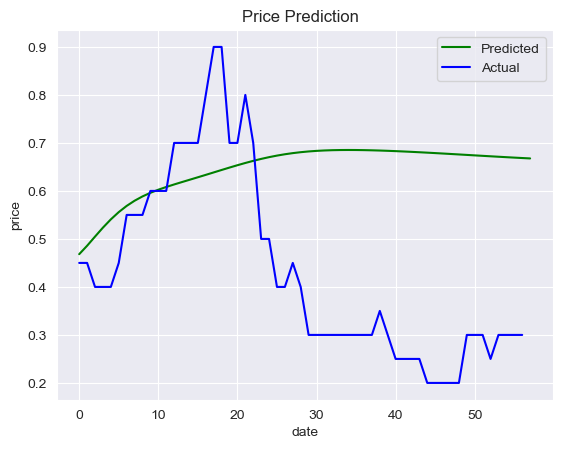
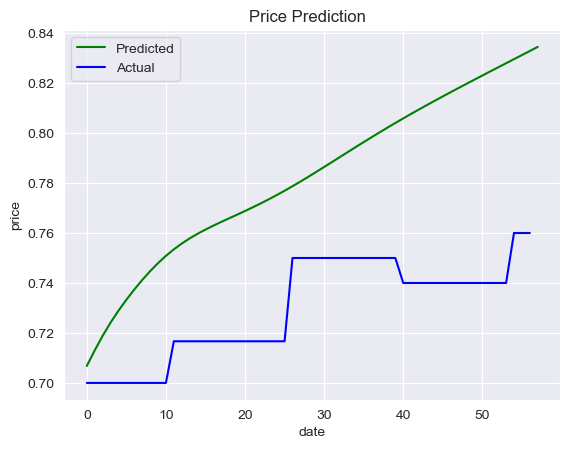
api

diff --git a/extra_virgin_olive_oil_prediction/arima_step_by_step.py b/extra_virgin_olive_oil_prediction/arima_step_by_step.py
@@ -3,12 +3,18 @@ from sklearn import neighbors
 from sklearn.model_selection import GridSearchCV
 import pandas as pd
 from sklearn.preprocessing import MinMaxScaler
-
+from statsmodels.tsa.stattools import adfuller
 scaler = MinMaxScaler(feature_range=(0, 1))
 import matplotlib.pyplot as plt
 from pmdarima.arima import auto_arima
+import numpy as np
+from statsmodels.tsa.seasonal import seasonal_decompose
+from pandas.plotting import autocorrelation_plot
+from statsmodels.tsa.arima_model import ARIMA
 
+from statsmodels.tsa.stattools import acf, pacf
 df = pd.read_csv("food_dataset.csv")
+df.reset_index(drop=True)
 
 dfevoo = df[df['product'] == 'γιδοπρόβατα']
 dfevoo = dfevoo[dfevoo['country'] == 'greece']
@@ -17,9 +23,14 @@ dfevoo = dfevoo.drop(columns=['price_id', 'product', 'priceDate', 'url', 'countr
     by='priceStringDate')
 dfevoo = pd.DataFrame(dfevoo)
 dfevoo = dfevoo.groupby('priceStringDate').mean().reset_index()
-
 train_perc = 0.7
-
+data=dfevoo
+print(data.info())
+print(data.head())
+plt.plot(data)
+plt.show()
+quit(0)
+ts=data['price']
 train = dfevoo[:int(len(dfevoo) * train_perc)]  # .sample(frac=0.8, random_state=0)
 test = dfevoo.drop(train.index)
 data=dfevoo['price']
@@ -32,8 +43,8 @@ plt.show()
 
 def test_stationarity(timeseries):
     #Determing rolling statistics
-    rolmean = timeseries.rolling(window=12).mean()
-    rolstd = timeseries.rolling(window=12).std()
+    rolmean = timeseries.rolling(window=3).mean()
+    rolstd = timeseries.rolling(window=3).std()
 
     #Plot rolling statistics:
     orig = plt.plot(timeseries, color='blue',label='Original')
@@ -42,5 +53,117 @@ def test_stationarity(timeseries):
     plt.legend(loc='best')
     plt.title('Rolling Mean & Standard Deviation')
     plt.show(block=False)
+    # Perform Dickey-Fuller test:
+    print ('Results of Dickey-Fuller Test:')
+    dftest = adfuller(timeseries, autolag='AIC')
+    dfoutput = pd.Series(dftest[0:4], index=['Test Statistic', 'p-value', '#Lags Used', 'Number of Observations Used'])
+    for key, value in dftest[4].items():
+        dfoutput['Critical Value (%s)' % key] = value
+    print(dfoutput)
 
 test_stationarity(data)
+
+ts_log = np.log(data)
+plt.title('Log of the data')
+plt.plot(ts_log)
+plt.show()
+
+moving_avg = ts_log.rolling(3).mean()
+plt.plot(ts_log)
+plt.title('12 years of Moving average')
+plt.plot(moving_avg, color='red')
+plt.show()
+ts_log_moving_avg_diff = ts_log - moving_avg
+print(ts_log_moving_avg_diff.head(20))
+
+ts_log_moving_avg_diff.dropna(inplace=True)
+test_stationarity(ts_log_moving_avg_diff)
+
+expwighted_avg = ts_log.ewm(halflife=10).mean()
+#parameter halflife is used to define the amount of exponential decay
+plt.plot(ts_log)
+plt.plot(expwighted_avg, color='red')
+plt.show()
+ts_log_diff = ts_log - ts_log.shift()
+plt.plot(ts_log_diff)
+plt.show()
+
+ts_log_diff.dropna(inplace=True)
+test_stationarity(ts_log_diff)
+decomposition = seasonal_decompose(ts_log)
+
+trend = decomposition.trend
+seasonal = decomposition.seasonal
+residual = decomposition.resid
+
+plt.subplot(411)
+plt.plot(ts_log, label='Original')
+plt.legend(loc='best')
+plt.subplot(412)
+plt.plot(trend, label='Trend')
+plt.legend(loc='best')
+plt.subplot(413)
+plt.plot(seasonal,label='Seasonality')
+plt.legend(loc='best')
+plt.subplot(414)
+plt.plot(residual, label='Residuals')
+plt.legend(loc='best')
+plt.show()
+plt.tight_layout()
+
+ts_log_decompose = residual
+ts_log_decompose.dropna(inplace=True)
+test_stationarity(ts_log_decompose)
+
+lag_acf = acf(ts_log_diff, nlags=20)
+lag_pacf = pacf(ts_log_diff, nlags=20, method='ols')
+
+plt.subplot(121)
+plt.plot(lag_acf)
+plt.axhline(y=0,linestyle='--',color='gray')
+plt.axhline(y=-1.96/np.sqrt(len(ts_log_diff)),linestyle='--',color='gray')
+plt.axhline(y=1.96/np.sqrt(len(ts_log_diff)),linestyle='--',color='gray')
+plt.show()
+plt.title('Autocorrelation Function')
+
+plt.subplot(122)
+plt.plot(lag_pacf)
+plt.axhline(y=0,linestyle='--',color='gray')
+plt.axhline(y=-1.96/np.sqrt(len(ts_log_diff)),linestyle='--',color='gray')
+plt.axhline(y=1.96/np.sqrt(len(ts_log_diff)),linestyle='--',color='gray')
+plt.title('Partial Autocorrelation Function')
+plt.show()
+plt.tight_layout()
+
+model = ARIMA(ts_log, order=(2, 1, 0))
+results_AR = model.fit(disp=-1)
+plt.plot(ts_log_diff)
+plt.plot(results_AR.fittedvalues, color='red')
+plt.title('RSS: %.4f'% sum((results_AR.fittedvalues-ts_log_diff)**2))
+
+
+model = ARIMA(ts_log, order=(0, 1, 2))
+results_MA = model.fit(disp=-1)
+plt.plot(ts_log_diff)
+plt.plot(results_MA.fittedvalues, color='red')
+plt.title('RSS: %.4f'% sum((results_MA.fittedvalues-ts_log_diff)**2))
+
+model = ARIMA(ts_log, order=(2, 1, 2))
+results_ARIMA = model.fit(disp=-1)
+plt.plot(ts_log_diff)
+plt.plot(results_ARIMA.fittedvalues, color='red')
+plt.title('RSS: %.4f'% sum((results_ARIMA.fittedvalues-ts_log_diff)**2))
+
+predictions_ARIMA_diff = pd.Series(results_ARIMA.fittedvalues, copy=True)
+print(predictions_ARIMA_diff.head())
+
+predictions_ARIMA_diff_cumsum = predictions_ARIMA_diff.cumsum()
+print(predictions_ARIMA_diff_cumsum.head())
+
+predictions_ARIMA_log = pd.Series(ts_log.ix[0], index=ts_log.index)
+predictions_ARIMA_log = predictions_ARIMA_log.add(predictions_ARIMA_diff_cumsum,fill_value=0)
+predictions_ARIMA_log.head()
+predictions_ARIMA = np.exp(predictions_ARIMA_log)
+plt.plot(ts)
+plt.plot(predictions_ARIMA)
+plt.title('RMSE: %.4f'% np.sqrt(sum((predictions_ARIMA-ts)**2)/len(ts)))

diff --git a/extra_virgin_olive_oil_prediction/dataframe_to_csv.py b/extra_virgin_olive_oil_prediction/dataframe_to_csv.py
@@ -13,11 +13,13 @@ parsed = json.loads(data)
 # dataframe
 df = pd.DataFrame(parsed)
 prouped_ordered = df.groupby(['product']).size().reset_index(name='counts').sort_values('counts')
-print(prouped_ordered)
+# print(prouped_ordered)
+print(prouped_ordered.head(250))
+
+quit(0)
 dfevoo = df[df['product'] == 'κατσίκια']
 # dfevoo = df[df['product'].str.contains("olive")]
 dfevoo = dfevoo[dfevoo['country'] == 'greece']
-print(dfevoo['product'].head(1000))
 
 dfevoo['priceStringDate'] = pd.to_datetime(dfevoo['priceStringDate'])
 dfevoo = dfevoo.drop(columns=['price_id', 'product', 'priceDate', 'url', 'country', 'dataSource']).sort_values(
